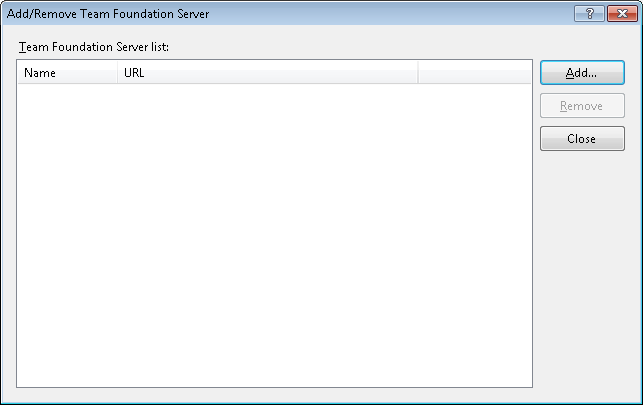
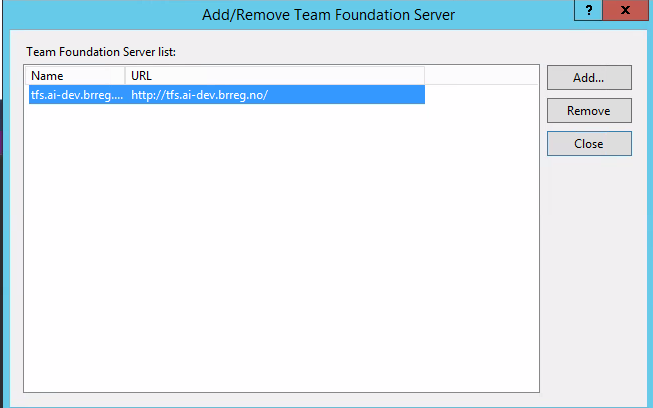
oppdatert vedlegg f

Changed region(s): [[0.0, 0.0, 1.0, 1.0]]

diff --git a/content/guides/tul/vedlegg/f.md b/content/guides/tul/vedlegg/f.md
@@ -13,9 +13,13 @@ Visual Studio (2015 anbefalt) er installert og C\# Development Setting valgt for
 
 ## Koble opp mot tjenesteeiers TFS prosjekt 
 
-Velg *Team -\> Connect to Team Foundation Server…*
+Velg *Team -\> Manage connections…*
 
 {{<figure src="/docs/images/guides/tul/connect-to-tfs.png" title="Koble til Team Foundation Server" >}}
+
+Velg *Team -\> Manage connections…Connect to team project*
+
+{{<figure src="/docs/images/guides/tul/team-manage-connections.png" title="Koble til Team Foundation Server" >}}
 
 Velg *Servers…*
 
@@ -25,38 +29,24 @@ Velg *Add…*
 
 {{<figure src="/docs/images/guides/tul/add-tfs-server.png" title="Legg til TFS Server" >}}
 
-Angi url, path, portnummer og protokoll
 
-{{<figure src="/docs/images/guides/tul/add-tfs-details.png" title="Angi TFS-detaljer" >}}
 
-Oppgi `altinntest\<brukernavn>` (f.eks. altinntest\\ola.nordmann), passord og trykk *OK*.
+Kryss av ServDev (inneholder repository for Mapperne )  
 
-{{<figure src="/docs/images/guides/tul/tfs-login.png" title="TFS login" >}}
-
-Kryss av Common (inneholder bl.a. base klasser for mappere)  
-og for den tjenesteier du skal utvikle for, for eksempel Testdepartementet (TTD).
 
 Trykk *Connect*.
 
-{{<figure src="/docs/images/guides/tul/choose-team-projects.png" title="Velg Team Projects" >}}
+{{<figure src="/docs/images/guides/tul/git-clone-from-tfs.png" title="Velg Team Projects" >}}
 
-Under *Team Explorer*, ekspander (tjenesteeier) og dobbel-klikk *Source Control*.
+Velg Clone this repository for å hente kildekoden.
 
-{{<figure src="/docs/images/guides/tul/vs-team-explorer.png?width=700" title="Team Explorer" >}}
+{{<figure src="/docs/images/guides/tul/git-clone-from-tfs-steg-2.png?width=700" title="Team Explorer" >}}
 
-I *Source Control Explorer*, velg (tjenesteeier) og klikk så "Not mapped".
+Angi plassering av lokal arbeidskatalog, og velg Clone
 
-{{<figure src="/docs/images/guides/tul/source-control-explorer.png?width=700" title="Source Control Explorer" >}}
 
-Angi plassering av lokal arbeidskatalog, for eksempel `c:\dev\TTD`. Velg *Map*.
+{{<figure src="/docs/images/guides/tul/git-cloned-repository.png" title="Opprett workspace-mapping" >}}
 
-{{<figure src="/docs/images/guides/tul/vs-map.png" title="Opprett workspace-mapping" >}}
-
-Velg *Ja* for å hente ut kode:
-
-{{<figure src="/docs/images/guides/tul/vs-map-get-code.png" title="Velg Ja for å hent koden" >}}
-
-De fire siste stegene gjentas for å få sjekket ut *Common*.
 
 Åpne
 ```
